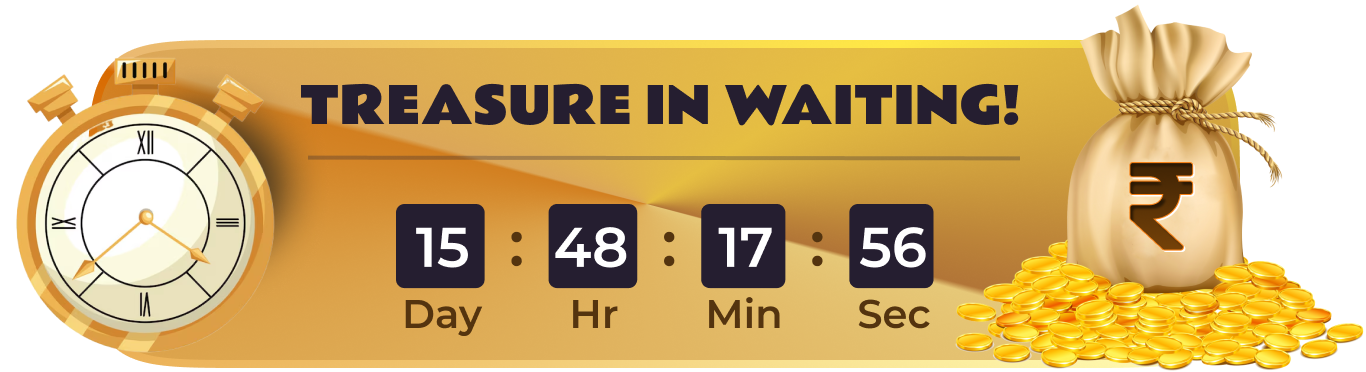
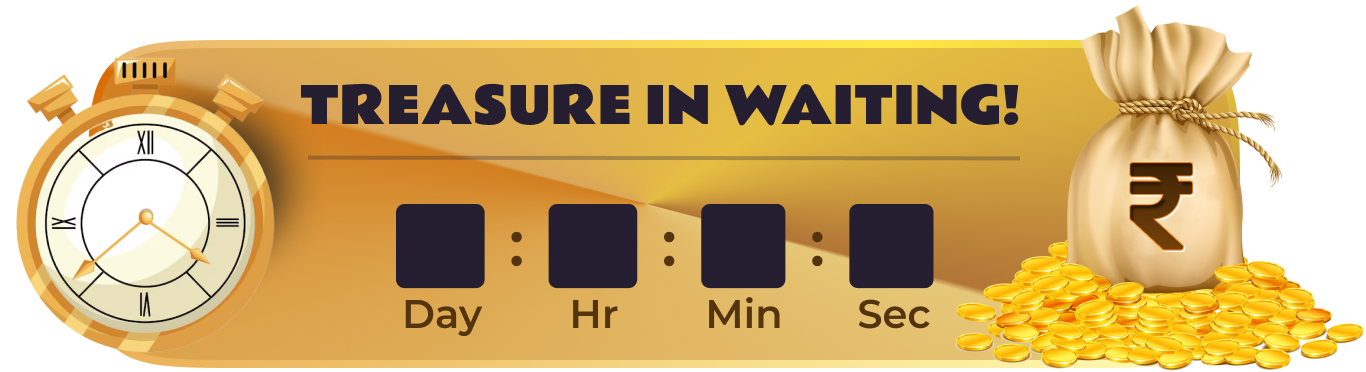
timmer ui

diff --git a/Assets/_this/Scripts/UI/CountdownTimer.cs b/Assets/_this/Scripts/UI/CountdownTimer.cs
@@ -4,16 +4,21 @@ using TMPro;
 
 public class CountdownTimer : MonoBehaviour
 {
-    public int year;
-    public int month;
-    public int day ;
-    public int hour;
-    public int minute;
-    public int second;
+    private int year;
+    private int month;
+    private int day;
+    private int hour;
+    private int minute;
+    private int second;
 
     private DateTime targetTime;
     private TimeSpan remainingTime;
-    public TextMeshProUGUI countdownText;
+
+    // Separate TextMeshProUGUI components for each part of the countdown
+    public TextMeshProUGUI daysText;
+    public TextMeshProUGUI hoursText;
+    public TextMeshProUGUI minutesText;
+    public TextMeshProUGUI secondsText;
 
     private void OnEnable()
     {
@@ -22,22 +27,21 @@ public class CountdownTimer : MonoBehaviour
 
     void Start()
     {
-        
-        
-        
     }
 
     void Update()
     {
         UpdateRemainingTime();
-        countdownText.text = remainingTime.ToString(@"dd\:hh\:mm\:ss");
+
+        // Update each TextMeshProUGUI component with the respective time value
+        daysText.text = remainingTime.Days.ToString("D2"); // Two digits for consistency
+        hoursText.text = remainingTime.Hours.ToString("D2");
+        minutesText.text = remainingTime.Minutes.ToString("D2");
+        secondsText.text = remainingTime.Seconds.ToString("D2");
+
         if (remainingTime.TotalSeconds <= 0)
         {
-        }
-        if (Input.GetKeyDown(KeyCode.Y))
-        {
-          
-         
+            // Logic when countdown reaches zero
         }
     }
 
@@ -50,6 +54,7 @@ public class CountdownTimer : MonoBehaviour
             remainingTime = TimeSpan.Zero;
         }
     }
+
     private void GetTargetTime()
     {
         ApiManager.Get<GiveawayTimerResponse>(ServiceURLs.GetGiveawayTimer, OnSuccessGetTime, OnErrorGetWalletGetTime);
@@ -90,6 +95,7 @@ public class CountdownTimer : MonoBehaviour
         CustomLog.ErrorLog(obj);
     }
 }
+
 public class GiveawayTimerResponse
 {
     public bool status;
